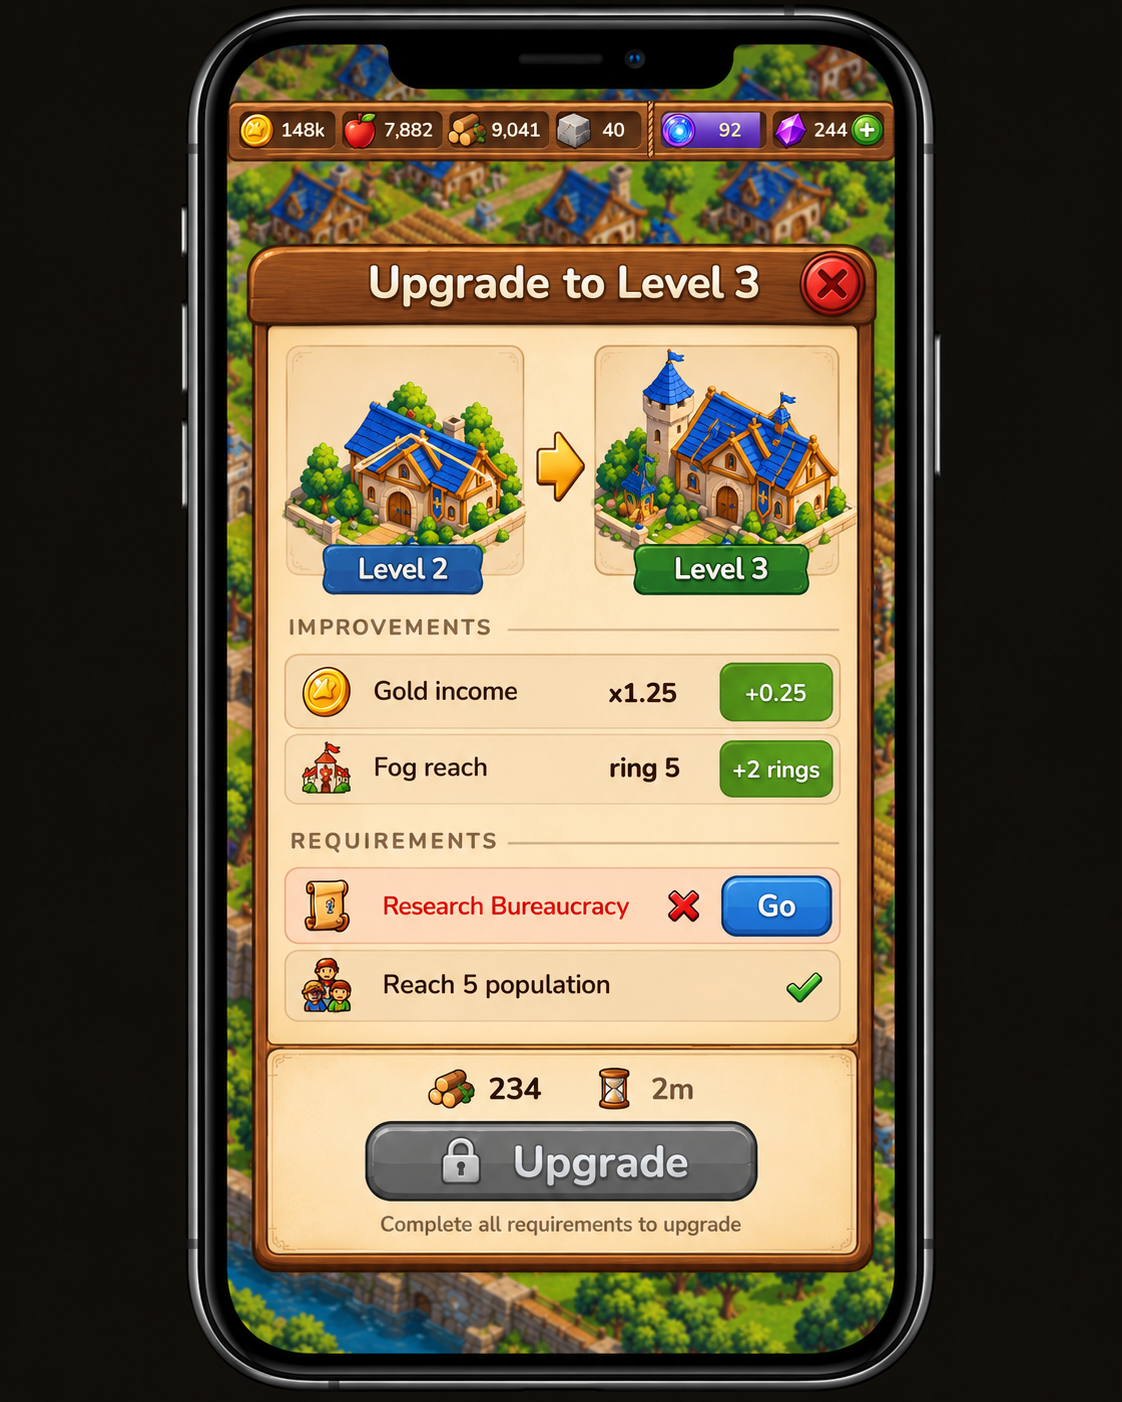
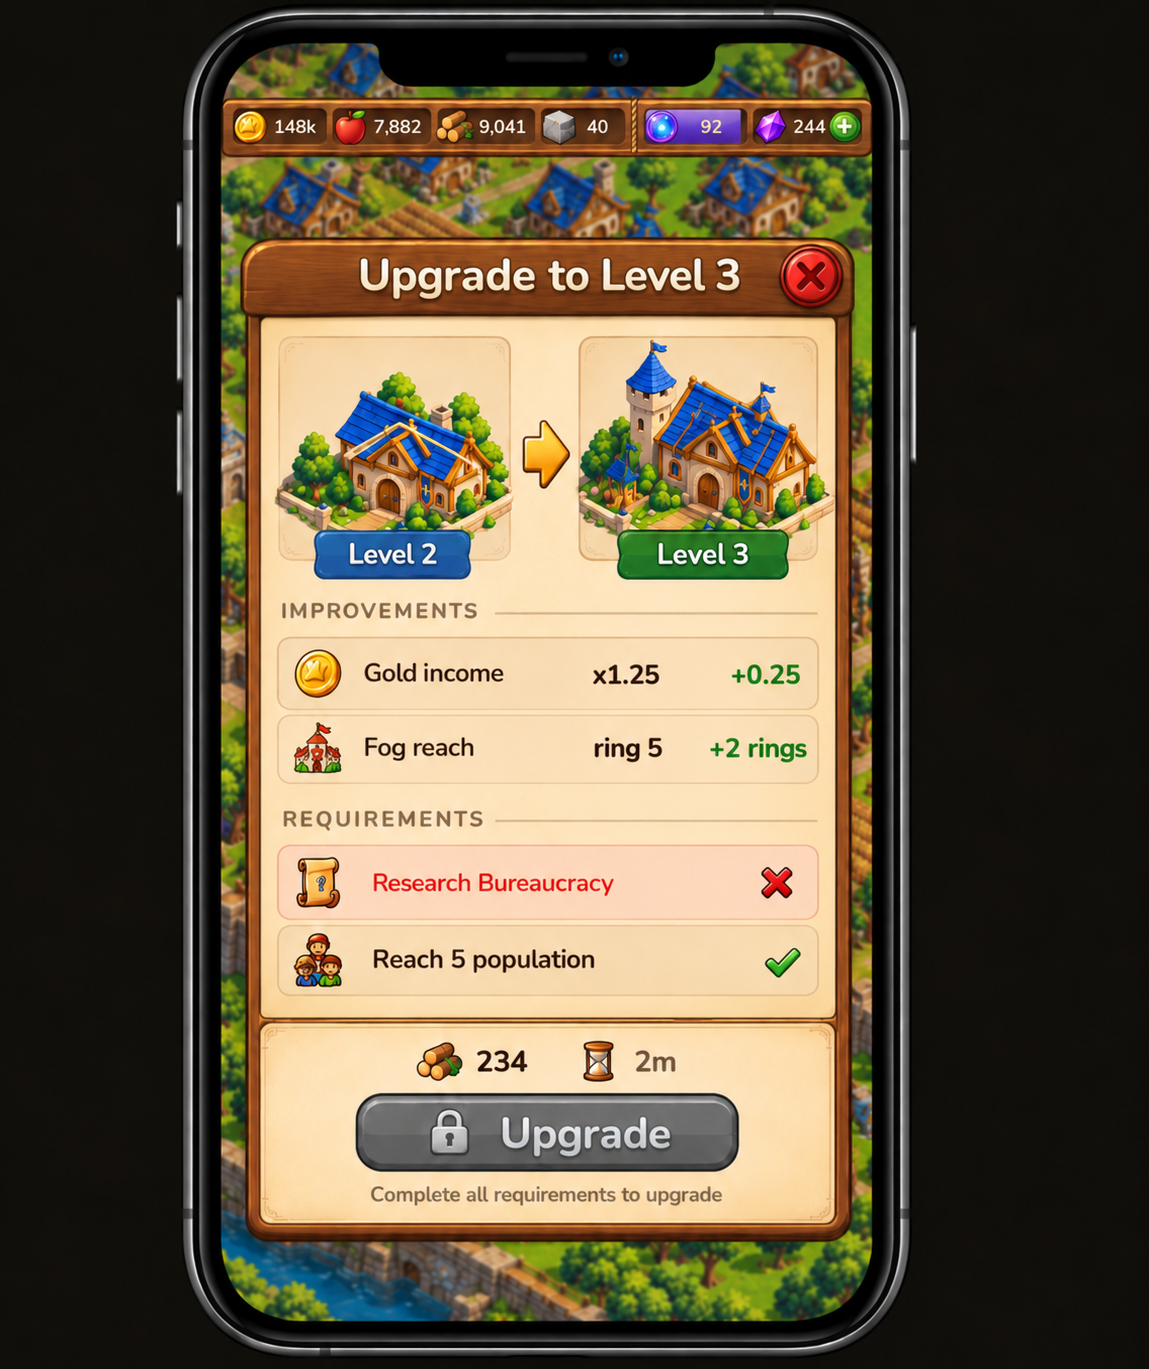
docs(ui): the upgrade popup's final layout — two portraits, gains as green deltas, requirements met or not

diff --git a/Docs/art/ui-menus-redesign.md b/Docs/art/ui-menus-redesign.md
@@ -479,6 +479,22 @@ wood of its sides touches the screen's edges.
   popup's). Each is a `.k-section` of darker paper, 112 × 58 px (narrower
   only where three would not fit), 14 px apart; three to a row, centred, a
   fourth wrapping to a centred row of its own.
+- **The upgrade popup** (the card's Upgrade opens it; reference
+  `mockups/m34-upgrade-popup-final.png`), a centred window titled
+  *Upgrade to Level 3*:
+  - two portraits, the building at its current level and at the next, a
+    yellow arrow between them, each with its level on a badge under it
+    (*Level 2* blue, *Level 3* green);
+  - *Improvements*: one row per stat that improves — its icon, its full
+    name, its CURRENT value, and what the level adds as green text on the
+    right (*x1.25* … *+0.25*, *ring 5* … *+2 rings*). A stat the level does
+    not change is not listed;
+  - *Requirements*, shown only when the level has any: one row each — its
+    icon, what it asks, and a green tick or a red cross; an unmet row is red
+    text on a light red row. Nothing links to where it is met;
+  - the price and the build time over the Upgrade button. An unmet
+    requirement locks the button (grey, a padlock) with *Complete all
+    requirements to upgrade* under it; a short purse only colours the price.
 - The nav bar steps aside while any window is open, the district card's
   included (§6.5).
 
